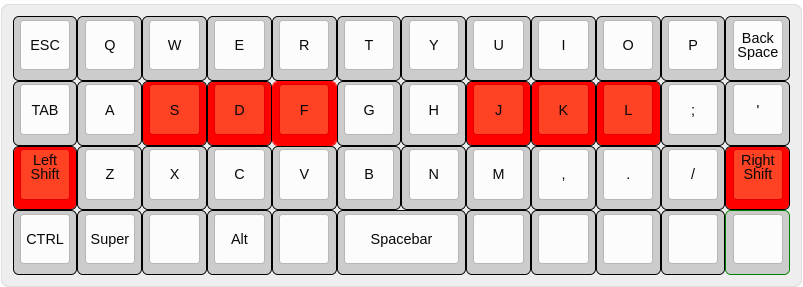
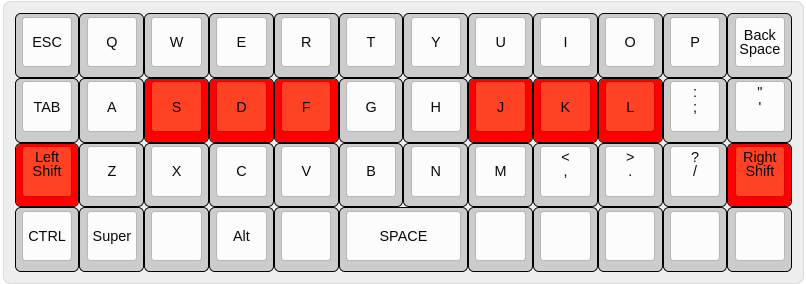
new images and some text

diff --git a/README.md b/README.md
@@ -1,3 +1,6 @@
+# TODO
+Change images to represent shiftable characters and the red color
+
 # An efficient 40% keyboard layout
 I have been fiddling with my 40% layout ever since i got my keyboard, and I believe that I've come up with some good ideas about the 40% layout that I haven't seen anywhere else online. You can upload the keyboard [JSON file](https://github.com/EdvardSire/keyboard/blob/master/niu_mini_layout_planck_mit_mine.json) at [QMK configurator](https://config.qmk.fm/#/) to view the layout layer by layer.
 
@@ -34,9 +37,13 @@ One of my problems with the >68 key keyboard is that I never really used my righ
 
 ## Enter's position on the 4x12
 My first instinct was to rebind apostrophe (') and have the Enter under Backspace, but that wasn't comfortable for typing. Then i realized that one of the inefficiencies that i didn't like about 108 key keyboard was that I never really used my right thumb, since i Space with my left. That's how
+
+
+
+
+
+
 ## Numbers without a number row
 ## Special characters
 ## The power of QMK
 ## The final layout
-
-
